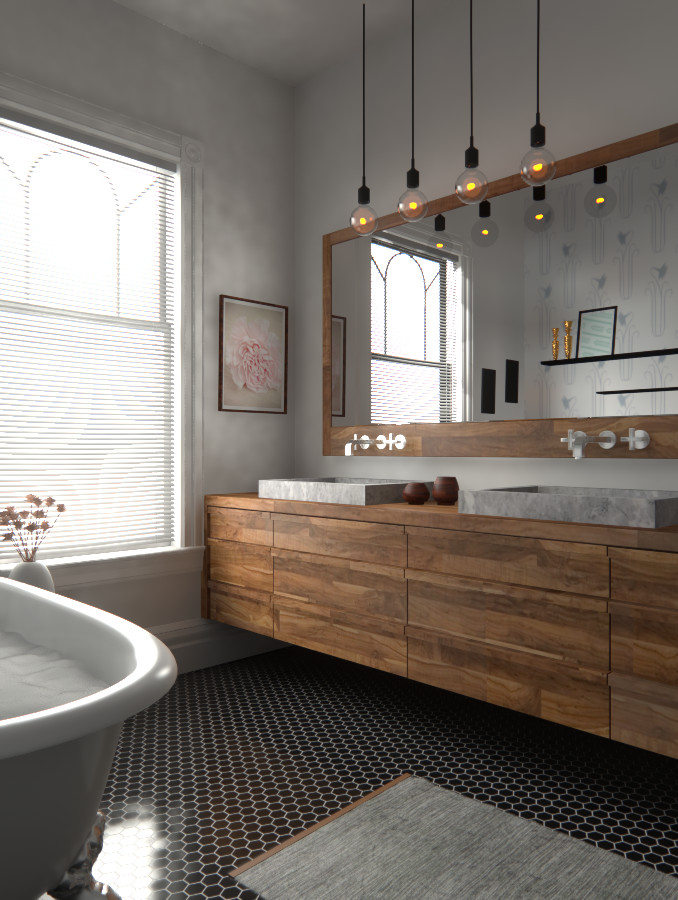
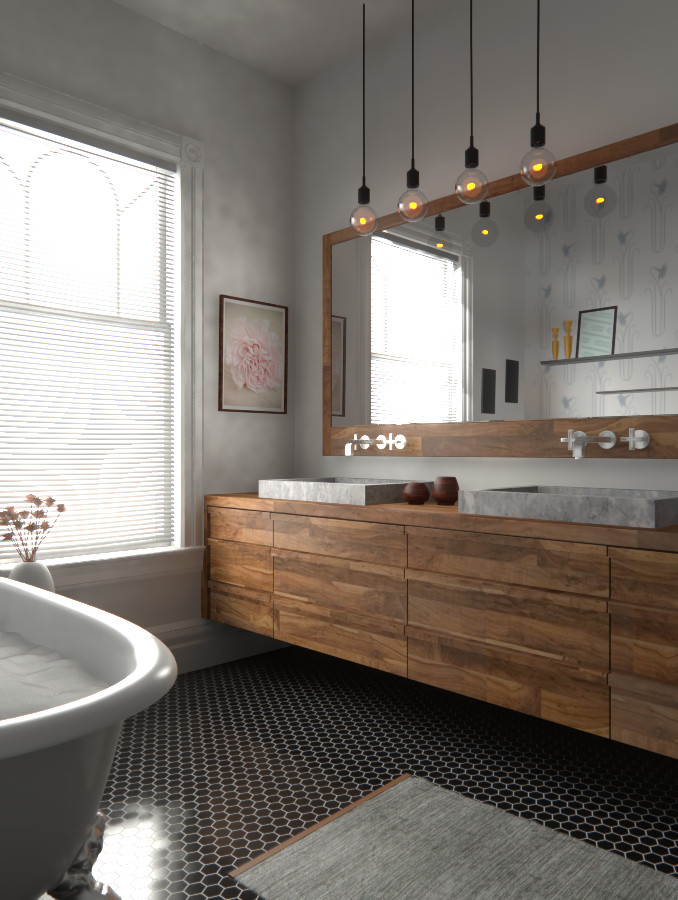
Fix noisy recursive reflections

diff --git a/tests/test_materials.cpp b/tests/test_materials.cpp
@@ -536,7 +536,7 @@ void test_materials(Sys::ThreadPool &threads, const bool full, std::string_view 
         run_image_test(threads, "complex_mat2_sun_light", 22.80, Full_Ultra);
         run_image_test(threads, "complex_mat2_moon_light", 22.85, MedDiffGI);
         run_image_test(threads, "complex_mat2_moon_light", 22.65, Full);
-        run_image_test(threads, "complex_mat2_moon_light", 23.10, Full_Ultra);
+        run_image_test(threads, "complex_mat2_moon_light", 23.05, Full_Ultra);
         run_image_test(threads, "complex_mat2_hdri_light", 20.80, MedDiffGI);
         run_image_test(threads, "complex_mat2_hdri_light", 22.15, Full);
         run_image_test(threads, "complex_mat2_hdri_light", 23.60, Full_Ultra);

diff --git a/renderer/shaders/rt_reflections_interface.h b/renderer/shaders/rt_reflections_interface.h
@@ -16,6 +16,8 @@ const int LOCAL_GROUP_SIZE_X = 64;
 const float TEX_LOD_OFFSET_MIN = 1;
 const float TEX_LOD_OFFSET_MAX = 3;
 
+const float RECURSION_ROUGHNESS_THRES = 0.15;
+
 const int TLAS_SLOT = 2;
 const int DEPTH_TEX_SLOT = 3;
 const int NORM_TEX_SLOT = 4;
